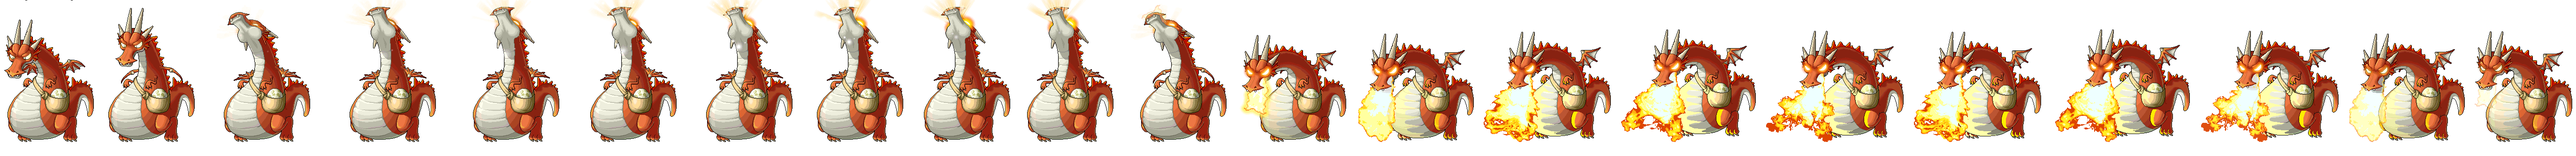
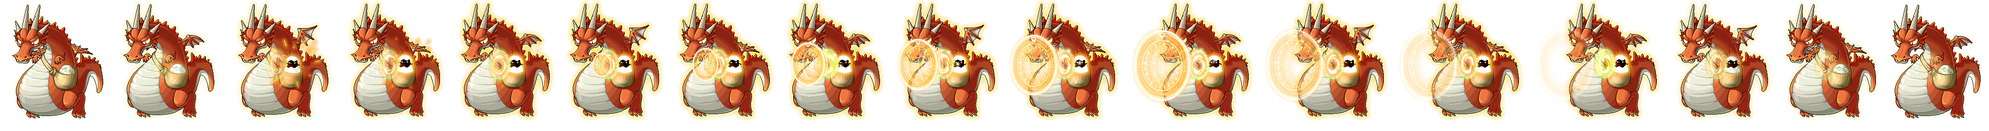
feat: working on easy level

diff --git a/public/gameSceneEasy.js b/public/gameSceneEasy.js
@@ -16,7 +16,7 @@ export default class GameSceneEasy extends Phaser.Scene {
   preload() {
     this.load.audio("battleMusic", "./assets/battleMusic.mp3");
     this.load.audio("jump", "./assets/jump-sfx.mp3");
-    this.load.image("background", "./assets/easyBg.png");
+    this.load.image("easybackground", "./assets/easyBackground.png");
     this.load.image("platform", "./assets/platform.png");
     this.load.image("block", "./assets/block.png");
 
@@ -43,14 +43,15 @@ export default class GameSceneEasy extends Phaser.Scene {
     });
 
     this.load.spritesheet("goal", "./assets/Dragon.png", {
-      frameWidth: 240,
-      frameHeight: 310,
+      frameWidth: 244.41,
+      frameHeight: 249,
+
 
     });
 
-    this.load.spritesheet("minion", "./assets/babyBalrog.png", {
-      frameWidth: 94.1,
-      frameHeight: 95.1,
+    this.load.spritesheet("minion", "./assets/babyDragon.png", {
+      frameWidth: 74.1,
+      frameHeight: 75,
     });
 
     this.load.spritesheet("tiles", "./assets/tiles.png", {
@@ -82,9 +83,9 @@ export default class GameSceneEasy extends Phaser.Scene {
     // let ourMusic = this.sound.add("music");
     this.socket.emit("hello");
     this.otherPlayers = this.physics.add.group();
-    let bg = this.add.sprite(-600, 2000, "background");
+    let bg = this.add.sprite(-600, -600, "easybackground");
     bg.setOrigin(0, 0);
-    bg.setScale(1);
+    bg.setScale(6);
     this.soundConfig = {
       volume: 0.1
     }
@@ -117,7 +118,7 @@ export default class GameSceneEasy extends Phaser.Scene {
     this.anims.create({
       key: "floating",
       frames: this.anims.generateFrameNames("minion", {
-        frames: [0, 1, 2, 3, 4, 5, 6, 7, 8, 9, 10, 11, 12, 13, 14, 15],
+        frames: [0, 1, 2, 3, 4],
       }),
       frameRate: 10,
       repeat: -1,
@@ -135,7 +136,7 @@ export default class GameSceneEasy extends Phaser.Scene {
     this.anims.create({
       key: "boss",
       frames: this.anims.generateFrameNames("goal", {
-        frames: [0, 1, 2, 2, 3, 3],
+        frames: [0, 1, 2, 3, 4, 5, 6, 7, 8, 9, 10, 11, 12, 13, 14, 15, 16],
       }),
       frameRate: 6,
       repeat: -1,

diff --git a/public/waitingRoom.js b/public/waitingRoom.js
@@ -27,7 +27,7 @@ export default class WaitingRoom extends Phaser.Scene {
   }
 
   startGame() {
-    this.timedEvent = this.time.delayedCall(10000, this.onEvent, [], this);
+    this.timedEvent = this.time.delayedCall(100, this.onEvent, [], this);
     this.start = true;
   }
 

diff --git a/public/gameScene.js b/public/gameScene.js
@@ -192,7 +192,7 @@ export default class GameScene extends Phaser.Scene {
   // this runs when player gets hit by object
   restartGame(sourceSprite, targetSprite) {
     this.player.x = 1100;
-    this.player.y = 300;
+    this.player.y = 2300;
   }
 
   // boss attack
